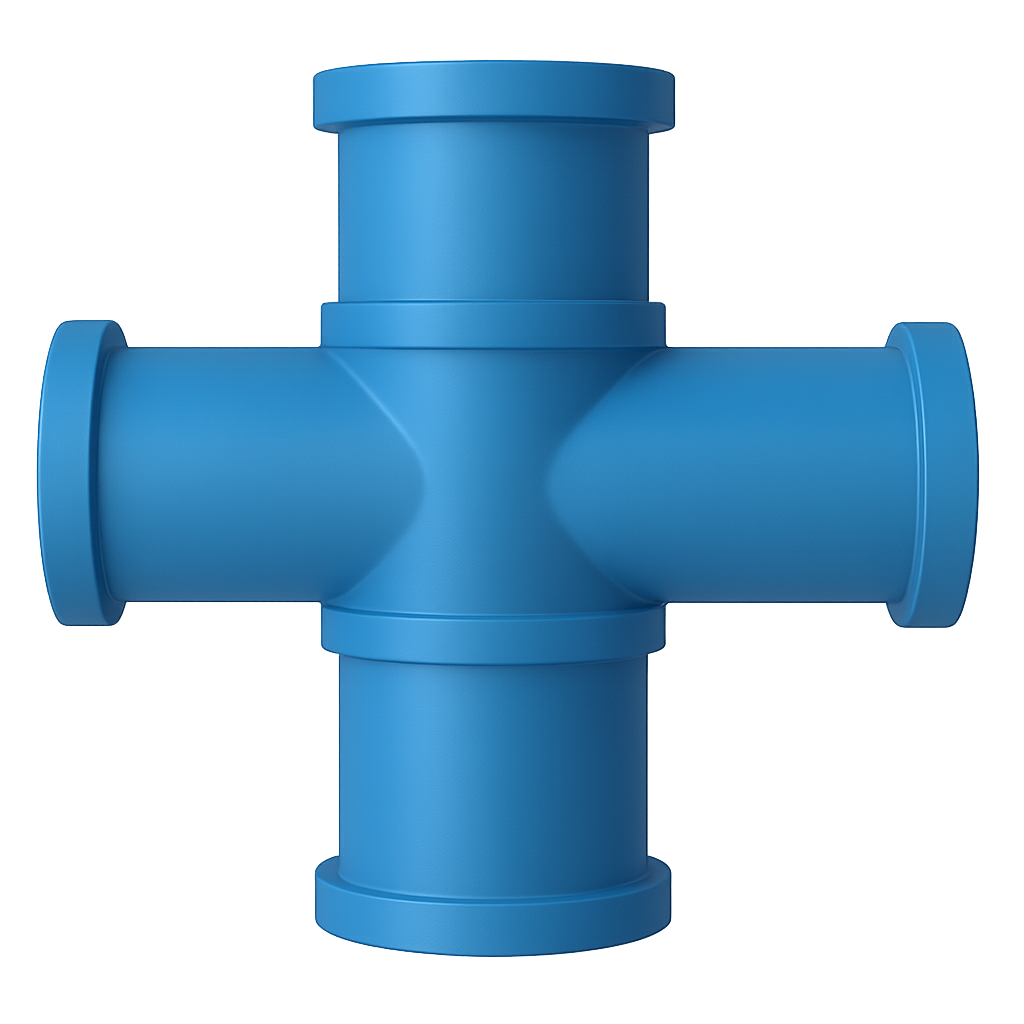
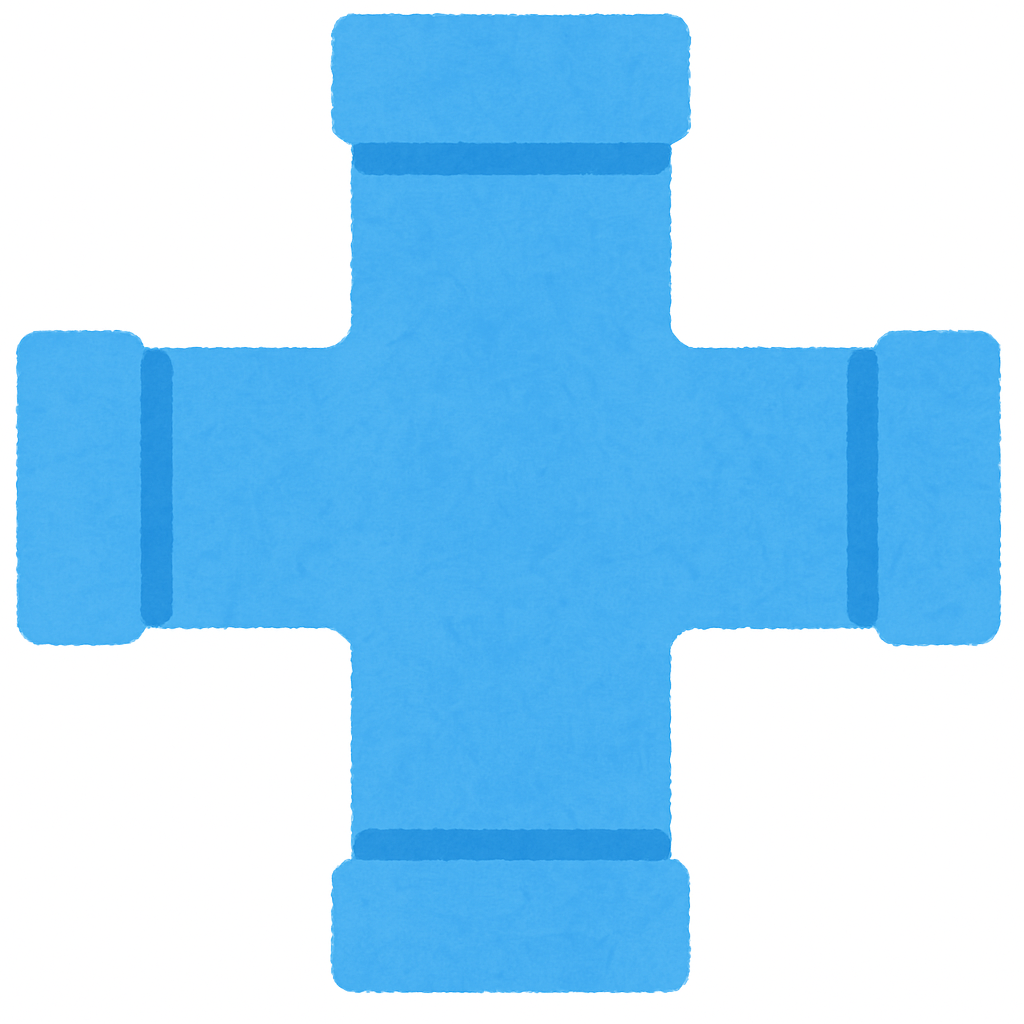
better imgs and bug fixes

diff --git a/style.css b/style.css
@@ -58,23 +58,20 @@ h2 {
 
 /* Define tile types */
 .tile[data-type="straight-h"] {
-  background-image: url("img/straight-h.png");
+  background-image: url("img/straight-hh.png");
   background-size: 100% 100%; /* Ensure the image fits the tile size */
 }
-
-
-.tile[data-type="curve-tl"] {
-  background-image: url("img/curvetl.jpg");
+.tile[data-type="curve"] {
+  background-image: url("img/curve.png");
   background-size: 100% 100%; /* Ensure the image fits the tile size */
 }
 .tile[data-type="cross"] {
   background-image: url("img/cross.png");
   background-size: 100% 100%; /* Ensure the image fits the tile size */
 }
-
-/* Winning tile */
-.tile.winner {
-  background-color: #ffc908;
+.tile[data-type="ttile"] {
+  background-image: url("img/ttile.png");
+  background-size: 100% 100%; /* Ensure the image fits the tile size */
 }
 
 /* Start tile style */
@@ -84,7 +81,7 @@ h2 {
   justify-content: center;
   align-items: center;
   overflow: hidden; /* Ensure the image doesn't overflow */
-  background-color: transparent; /* So image shows through */
+  background-color: #ffffff;
   pointer-events: none; /* Disable clicking */
 }
 
@@ -114,6 +111,16 @@ h2 {
   display: block; /* Remove any inline spacing issues */
 }
 
+/*test path button*/
+#testPathBtn {
+  padding: 10px 20px;
+  font-weight: bold;
+  background-color: #bf6b45;
+  color: #ffffff;
+  border: none;
+  border-radius: 5px;
+  cursor: pointer;
+}
 
 /* Message area */
 #message {
@@ -199,23 +206,8 @@ h2 {
   text-align: center;
 }
 
-#button-area button {
-  padding: 10px 20px;
-  font-weight: bold;
-  background-color: #003366;
-  color: white;
-  border: none;
-  border-radius: 5px;
-  cursor: pointer;
-  margin: 0 10px; /* Add spacing between buttons */
-}
-
-#button-area button:hover {
-  background-color: #00509e; /* Add hover effect */
-}
-
 .tile.path {
-  outline: 3px solid #2E9DF7;
+  outline: 2px solid #2E9DF7;
   box-shadow: 0 0 8px #2E9DF7;
 }
 
@@ -250,7 +242,38 @@ h2 {
   }
 }
 
-.tile.win-effect {
+.win-effect {
   animation: winPulse 0.5s ease-in-out;
+}
+
+/* Confetti dots for goal tile */
+.confetti-container {
+  position: absolute;
+  width: 100%;
+  height: 100%;
+  pointer-events: none;
+  overflow: hidden;
+}
+
+.confetti-dot {
+  position: absolute;
+  width: 7px;
+  height: 7px;
+  border-radius: 50%;
+  animation: confettiFall 1.5s se-out forwards;
+  opacity: 0.8;
+}
+
+
+
+@keyframes confettiFall {
+  0% {
+    transform: translateY(0) scale(1);
+    opacity: 1;
+  }
+  100% {
+    transform: translateY(30px) scale(0.9);
+    opacity: 0;
+  }
 }
 

diff --git a/script.js b/script.js
@@ -15,8 +15,9 @@ let rotations = 0;
 function getConnections(type, rotation) {
   const baseConnections = {
     'straight-h': ['left', 'right'],
-    'curve-tl': ['bottom', 'left'],
+    'curve': ['bottom', 'left'],
     'cross': ['top', 'right', 'bottom', 'left'],
+    'ttile': ['top', 'bottom', 'right'],
     'start': ['right', 'bottom'],
     'goal': ['top', 'right', 'bottom', 'left']
 
@@ -42,7 +43,7 @@ function generateTiles() {
   rotations = 0;
   rotationsElement.textContent = rotations;
 
-  const tileTypes = ['straight-h', 'curve-tl', 'cross'];
+  const tileTypes = ['straight-h', 'curve', 'ttile', 'cross'];
   const totalTiles = 25;
   const startTileIndex = 0;
 
@@ -272,6 +273,38 @@ function checkForValidPath() {
         
           // ✅ Show score and update UI
           message.textContent = `✅ Water reached the goal! +${score} pts`;
+          
+          // 🎯 Get the goal tile first
+          const goalTile = tiles[goalIndex];
+          
+        // 🧹 Remove old confetti
+          const existingConfetti = goalTile.querySelector('.confetti-container');
+          if (existingConfetti) {
+            existingConfetti.remove();
+
+            // ✅ Force a browser reflow (clears animation memory)
+            void goalTile.offsetWidth;
+          }
+           // 🎯 Add confetti to goal tile           
+          // 🎉 Confetti on goal tile
+          const confettiContainer = document.createElement('div');
+          confettiContainer.classList.add('confetti-container');
+          goalTile.appendChild(confettiContainer);
+
+          for (let i = 0; i < 20; i++) {
+            const dot = document.createElement('div');
+            dot.classList.add('confetti-dot');
+            dot.style.backgroundColor = ['#FFC907', '#2E9DF7', '#FF902A', '#4FCB53'][i % 4]; // Brand colors
+            dot.style.left = `${Math.random() * 90 + 5}%`;
+            dot.style.top = `${Math.random() * 40 + 10}%`;
+            confettiContainer.appendChild(dot);
+          }
+
+          // Remove confetti after 2 seconds
+          setTimeout(() => {
+            confettiContainer.remove();
+          }, 4000);
+
           updateScoreUI();
           gameOver = true;
         
